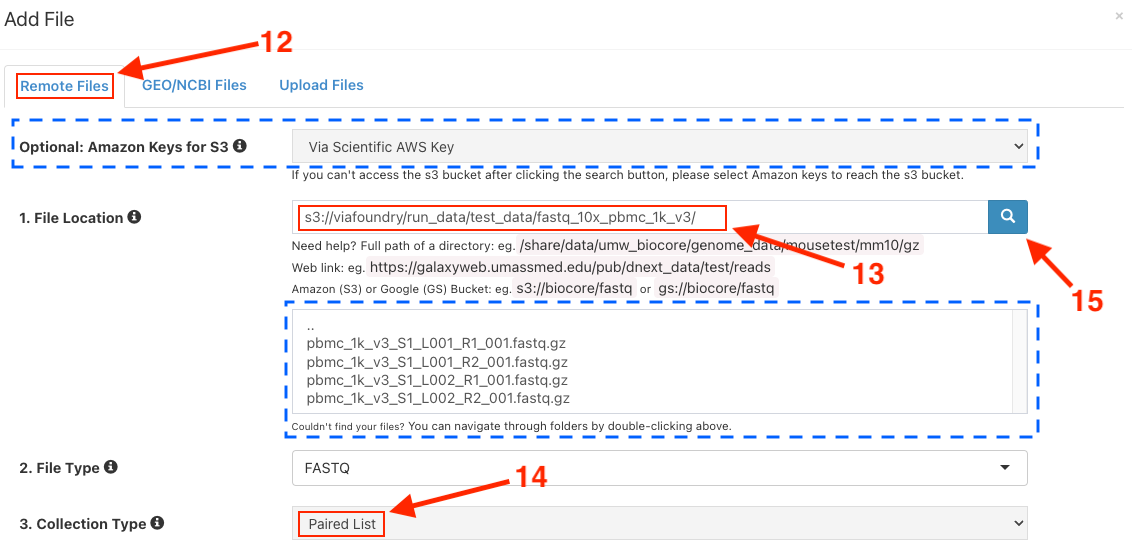
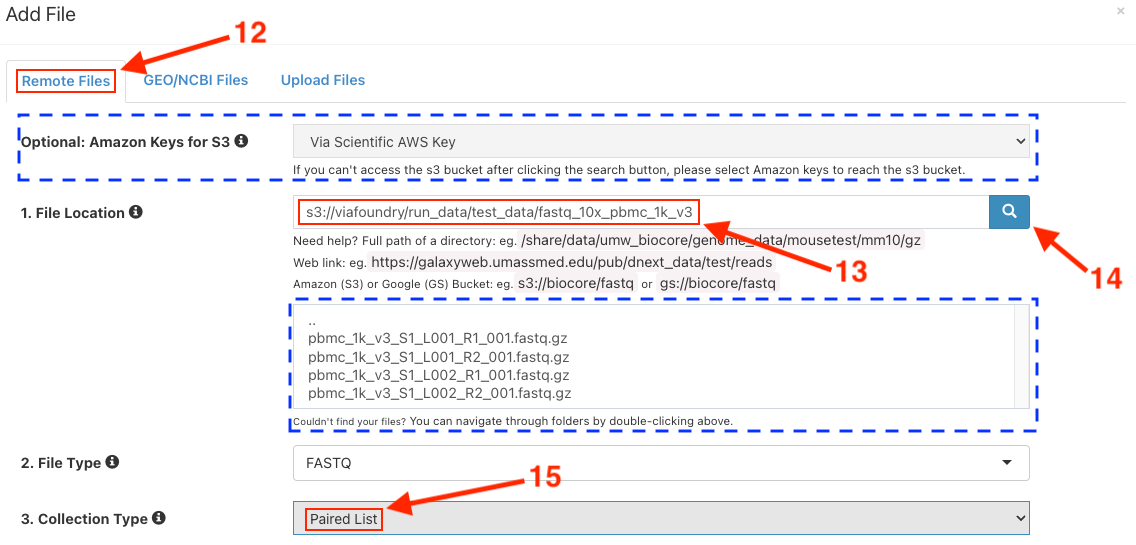
fix click order for add file

diff --git a/demo_single_cell_rna-seq_tutorial.md b/demo_single_cell_rna-seq_tutorial.md
@@ -65,7 +65,7 @@ s3://viafoundry/run_data/test_data/fastq_10x_pbmc_1k_v3
 
 The `Amazon Keys for S3` box should appear. The `Amazon Keys for S3` should automatically set itself to "Via Scientific AWS Key". ```If you prefer to use another AWS Key for another s3 bucket, please change "Amazon Keys for S3" dropdown option.``` 
 
-Click (15) **search button** to see the content of the s3 directory. Leave `2. File Type` as "FASTQ" and in the `3. Collection Type` dropdown, (14) select 'Paired List'. 
+Click (14) **search button** to see the content of the s3 directory. Leave `2. File Type` as "FASTQ" and in the `3. Collection Type` dropdown, (15) select 'Paired List'. 
 
 <p align="center"> <img src="sc-rnaseq_images/add_file1.png" width="80%"> </p>
 
